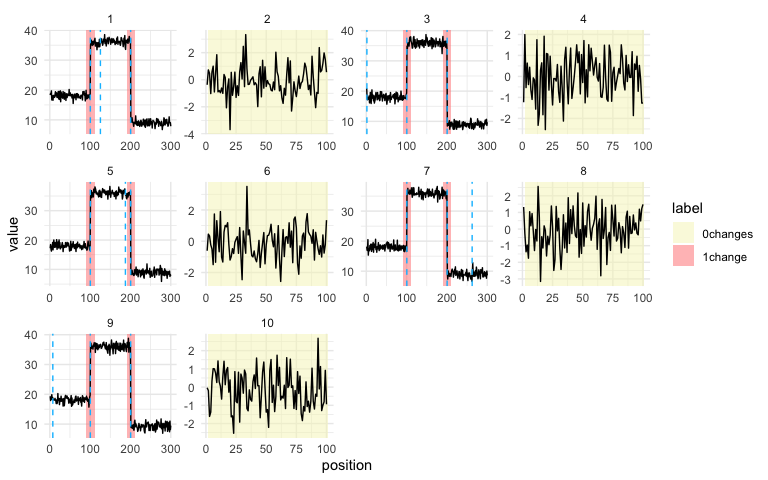
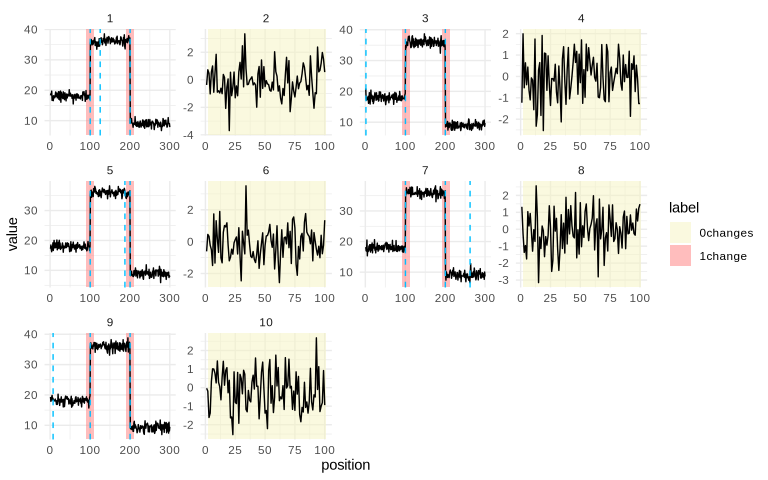
docs(readme): re-knit README.md from README.Rmd

diff --git a/README.md b/README.md
@@ -16,7 +16,6 @@ Weakly supervised changepoint detection for
 [![Lifecycle:
 experimental](https://img.shields.io/badge/lifecycle-experimental-orange.svg)](https://lifecycle.r-lib.org/articles/stages.html#experimental)
 [![pkgdown](https://github.com/sleepysnorlax05/mlr3changepoint/actions/workflows/pkgdown.yaml/badge.svg)](https://sleepysnorlax05.github.io/mlr3changepoint/)
-
 <!-- badges: end -->
 
 *mlr3changepoint* is the changepoint detection package of the
@@ -93,12 +92,12 @@ Windows, so pak installs a patched copy from
 
 ## Learners
 
-| Key                                                                                                                              | Label                               | Packages                                                                                                 |
-|----------------------------------------------------------------------------------------------------------------------------------|-------------------------------------|----------------------------------------------------------------------------------------------------------|
-| [changepoint.intregrcv](https://sleepysnorlax05.github.io/mlr3changepoint/reference/mlr_learners_changepoint.intregrcv.html)     | Cross-Validated Interval Regression | [penaltyLearning](https://cran.r-project.org/package=penaltyLearning)                                    |
-| [changepoint.xgboost.aft](https://sleepysnorlax05.github.io/mlr3changepoint/reference/mlr_learners_changepoint.xgboost.aft.html) | Extreme Gradient Boosting AFT       | [xgboost](https://cran.r-project.org/package=xgboost)                                                    |
-| [changepoint.mmit](https://sleepysnorlax05.github.io/mlr3changepoint/reference/mlr_learners_changepoint.mmit.html)               | Max Margin Interval Tree            | [mmit](https://github.com/aldro61/mmit)                                                                  |
-| [changepoint.mmif](https://sleepysnorlax05.github.io/mlr3changepoint/reference/mlr_learners_changepoint.mmif.html)               | Max Margin Interval Forest          | [mmit](https://github.com/aldro61/mmit), [future.apply](https://cran.r-project.org/package=future.apply) |
+| Key | Label | Packages |
+|----|----|----|
+| [changepoint.intregrcv](https://sleepysnorlax05.github.io/mlr3changepoint/reference/mlr_learners_changepoint.intregrcv.html) | Cross-Validated Interval Regression | [penaltyLearning](https://cran.r-project.org/package=penaltyLearning) |
+| [changepoint.xgboost.aft](https://sleepysnorlax05.github.io/mlr3changepoint/reference/mlr_learners_changepoint.xgboost.aft.html) | Extreme Gradient Boosting AFT | [xgboost](https://cran.r-project.org/package=xgboost) |
+| [changepoint.mmit](https://sleepysnorlax05.github.io/mlr3changepoint/reference/mlr_learners_changepoint.mmit.html) | Max Margin Interval Tree | [mmit](https://github.com/aldro61/mmit) |
+| [changepoint.mmif](https://sleepysnorlax05.github.io/mlr3changepoint/reference/mlr_learners_changepoint.mmif.html) | Max Margin Interval Forest | [mmit](https://github.com/aldro61/mmit), [future.apply](https://cran.r-project.org/package=future.apply) |
 
 Every learner also needs
 [penaltyLearning](https://cran.r-project.org/package=penaltyLearning)
@@ -111,11 +110,11 @@ labels.
 
 ## Measures
 
-| Key                                                                                                                                    | Label                    | What it scores                                                      |
-|----------------------------------------------------------------------------------------------------------------------------------------|--------------------------|---------------------------------------------------------------------|
-| [changepoint.label_error](https://sleepysnorlax05.github.io/mlr3changepoint/reference/mlr_measures_changepoint.label_error.html)       | Label Error              | Share of labelled regions with a false positive or false negative   |
-| [changepoint.label_accuracy](https://sleepysnorlax05.github.io/mlr3changepoint/reference/mlr_measures_changepoint.label_accuracy.html) | Label Accuracy           | One minus the label error                                           |
-| [changepoint.auc](https://sleepysnorlax05.github.io/mlr3changepoint/reference/mlr_measures_changepoint.auc.html)                       | Area Under the ROC Curve | Area under the ROC curve traced by shifting all predicted penalties |
+| Key | Label | What it scores |
+|----|----|----|
+| [changepoint.label_error](https://sleepysnorlax05.github.io/mlr3changepoint/reference/mlr_measures_changepoint.label_error.html) | Label Error | Share of labelled regions with a false positive or false negative |
+| [changepoint.label_accuracy](https://sleepysnorlax05.github.io/mlr3changepoint/reference/mlr_measures_changepoint.label_accuracy.html) | Label Accuracy | One minus the label error |
+| [changepoint.auc](https://sleepysnorlax05.github.io/mlr3changepoint/reference/mlr_measures_changepoint.auc.html) | Area Under the ROC Curve | Area under the ROC curve traced by shifting all predicted penalties |
 
 ## Example
 
